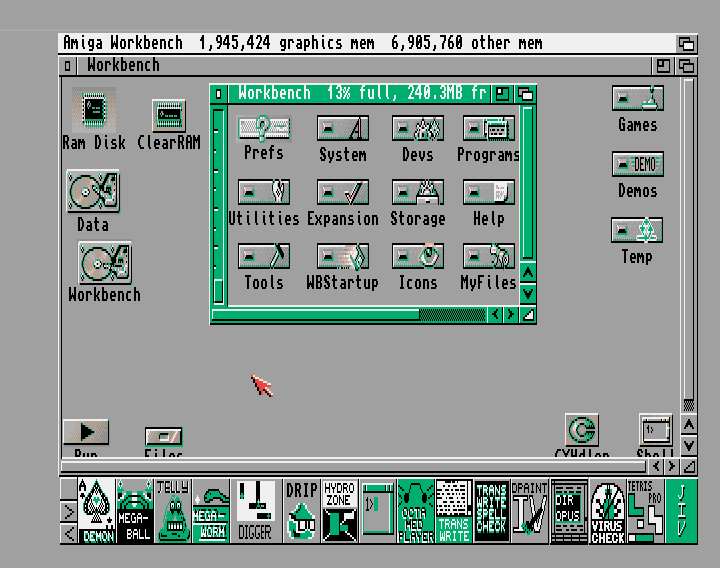
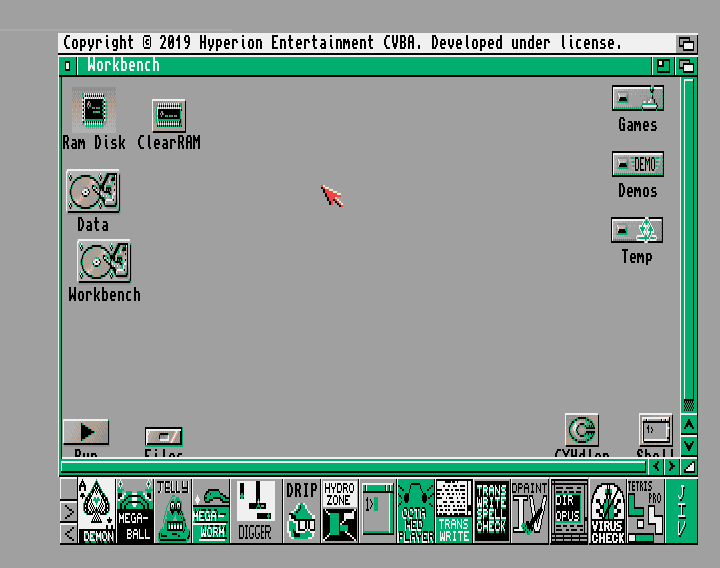
Updated screenshots

Changed region(s): [[0.0611, 0.0599, 0.9778, 0.838], [0.0917, 0.419, 0.1833, 0.5088], [0.3361, 0.6585, 0.3972, 0.6884]]

diff --git a/README.md b/README.md
@@ -59,6 +59,8 @@ Screenshots of ClassicWB GAAE from http://classicwb.abime.net/classicweb/gaaepic
 
 ![ClassicWB GAAE 3.1.4 3](screenshots/classicwb_gaae_3.1.4_3.png?raw=true)
 
+![ClassicWB GAAE 3.1.4 4](screenshots/classicwb_gaae_3.1.4_4.png?raw=true)
+
 ![ClassicWB GAAE 1](screenshots/classicwb_gaae_1.png?raw=true)
 
 ![ClassicWB GAAE 2](screenshots/classicwb_gaae_2.png?raw=true)
